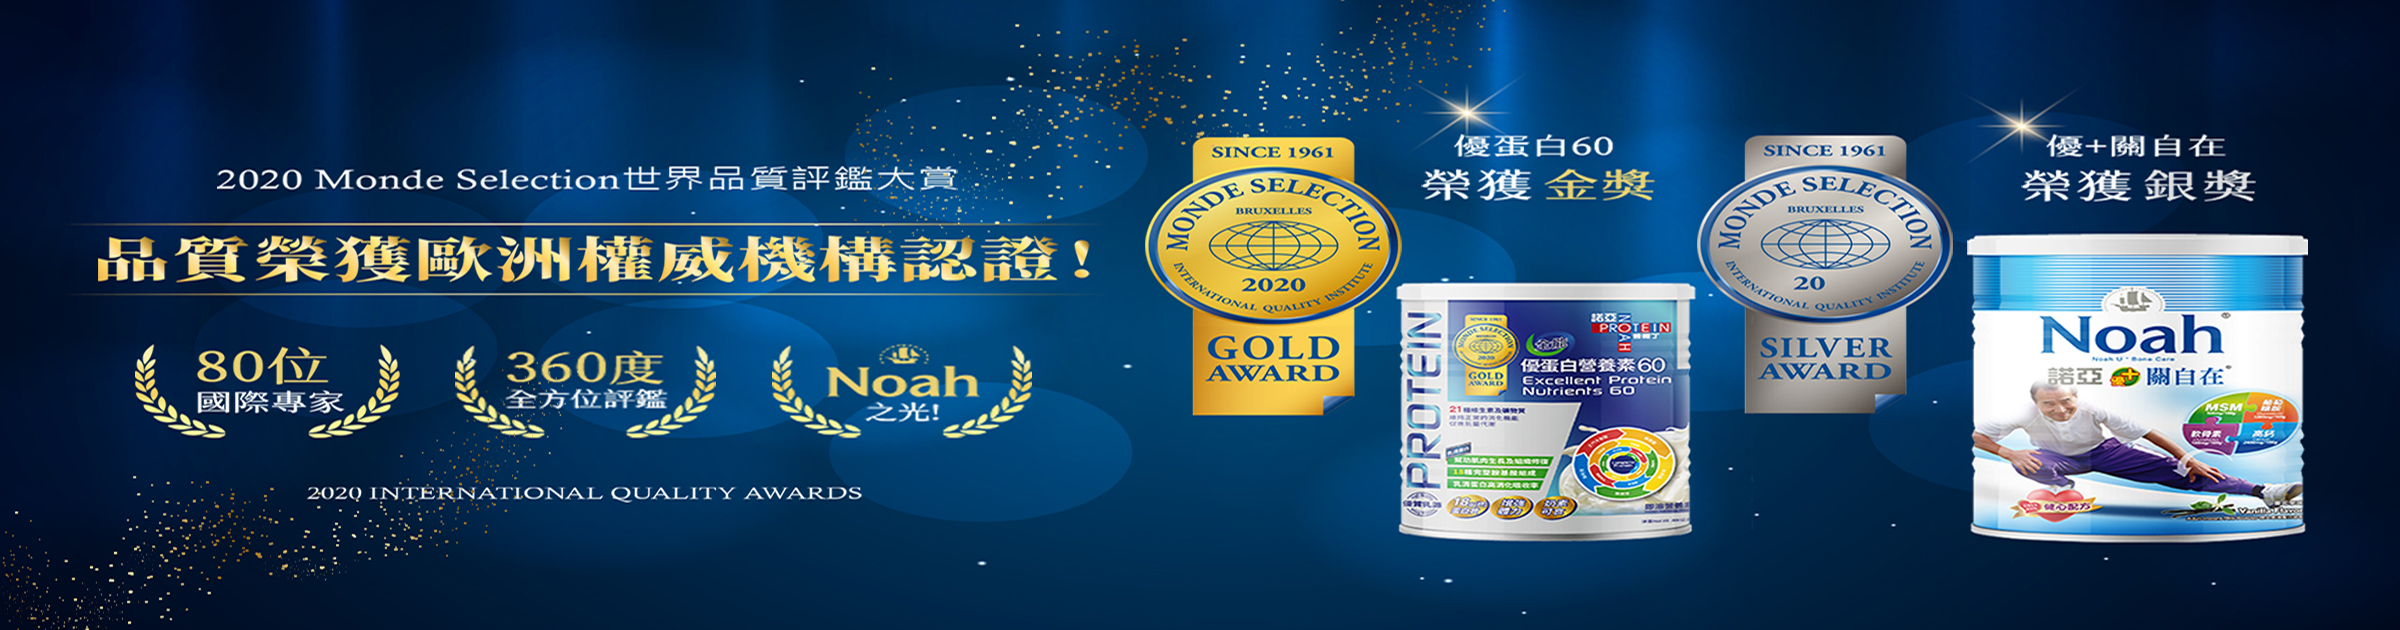
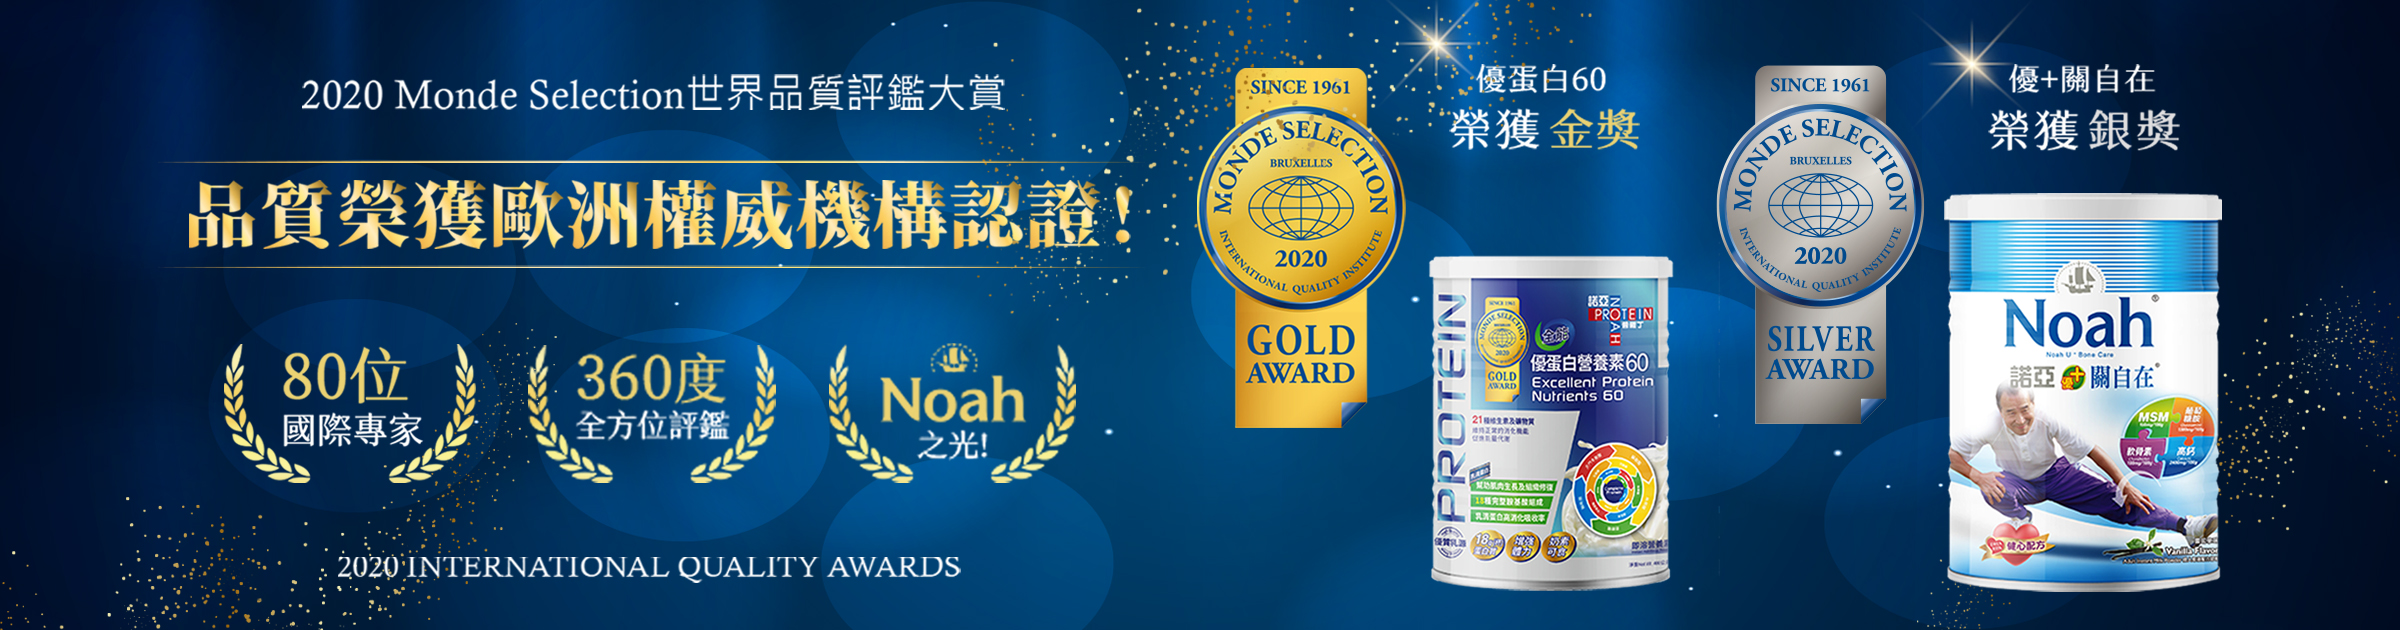
banner圖片更換

diff --git a/index.html b/index.html
@@ -57,7 +57,7 @@
                         <div class="navimg"><img src="images/Noah Logo(navbar)_240_85.png" alt="Noah"></div>
                     </a>
                 </li>
-                <li><a href="cover.html" class="cursor-default">產品介紹</a>
+                <li><a href="javascript:void(0)" class="cursor-default">產品介紹</a>
                     <ul class="ddmenu">
                         <li><a href="cover.html">cover系列</a></li>
                         <li><a href="Nutrition With Fiber.html">順暢系列</a></li>

diff --git a/nav.html b/nav.html
@@ -56,7 +56,7 @@
                 <div class="navimg"><img src="images/Noah Logo(navbar)_240_85.png" alt="Noah"></div>
             </a>
         </li>
-        <li><a href="cover.html" class="cursor-default">產品介紹</a>
+        <li><a href="javascript:void(0)" class="cursor-default">產品介紹</a>
             <ul class="ddmenu">
                 <li><a href="cover.html">cover系列</a></li>
                 <li><a href="Nutrition With Fiber.html">順暢系列</a></li>
